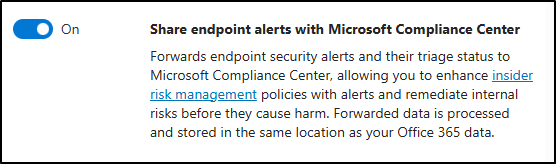
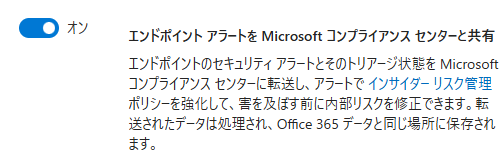
update

Changed region(s): [[0.0, 0.0, 1.0, 1.0]]

diff --git a/Labs/Lab0_Ex0_Lab_Setup.md b/Labs/Lab0_Ex0_Lab_Setup.md
@@ -192,13 +192,11 @@ Microsoft 365 で監査を正常に有効にしました。
 
 1. **Microsoft Edge** で、**`https://security.microsoft.com/`** に移動して Microsoft Defender を開きます。
 
-1. ナビゲーション ウィンドウで **[インシデントとアラート]** が、最上位レベルのオプションとして表示されていることが確認できたら、Microsoft Defender XDR が既に初期化されているため本タスクは実施不要です。次のタスクにジャンプしてください。そうでなければ、次の手順を実施してください。
+1. ナビゲーション ウィンドウで、**[調査と対応]** > **[インシデントとアラート]** > **[インシデント]** を選択します。
 
     > [!Note] **注:Microsoft Defender XDR の初期化**
     >
     > ナビゲーションは、Microsoft Defender XDR が既に初期化されているかどうかによって異なる場合があります。 初期化が完了している場合、**[インシデントとアラート]** が、**[調査と対応]** の下ではなく、最上位レベルのオプションとして表示されます。
-
-1. **[調査と対応]** > **[インシデントとアラート]** > **[インシデント]** を選択します。
 
 1. Microsoft Defender XDR が準備中であることを示すメッセージが表示されます。 このプロセスは自動的に実行され、数分かかる場合があります。
 
